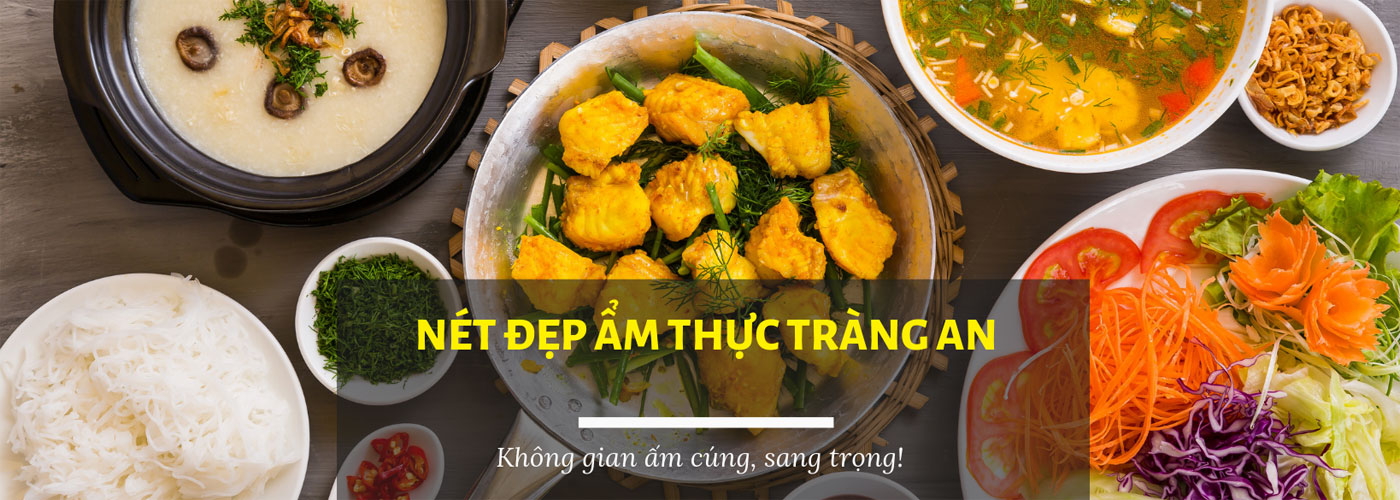
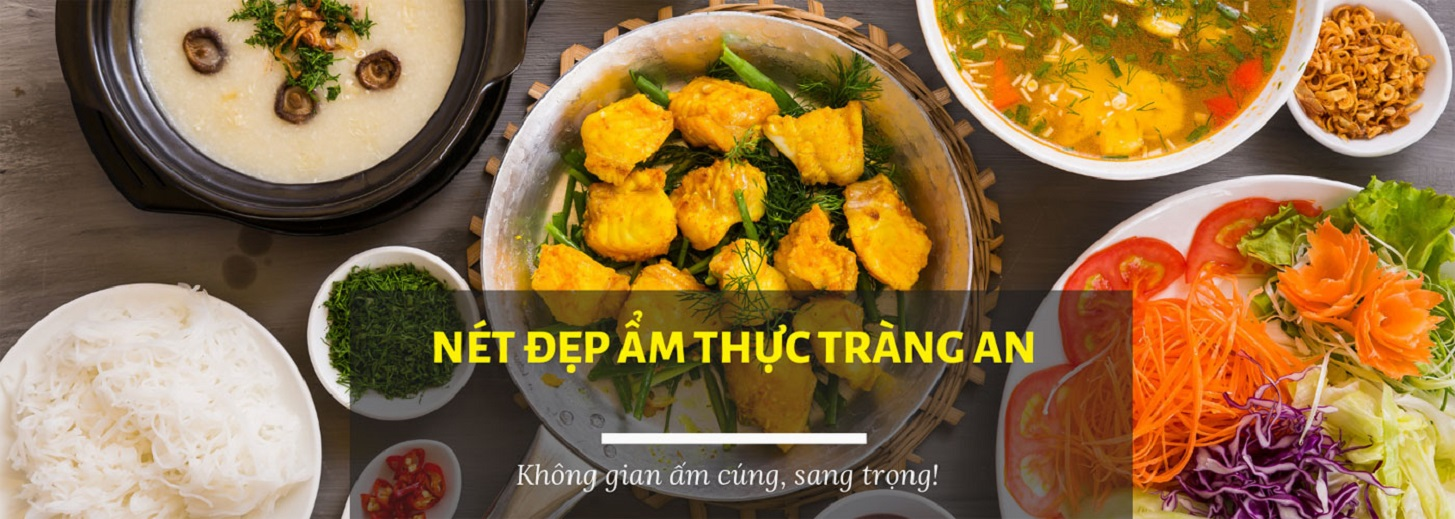
First change

diff --git a/CSS/style.css b/CSS/style.css
@@ -127,7 +127,7 @@ body{
 }
 
 .search-bar{
-    margin-top: 60px;
+    margin-top: 75px;
     float: right;
     height: 40px;
 }
@@ -186,7 +186,7 @@ body{
     display:inline-block;
     color:white;
     padding:20px 50px;
-    font-size: 25px;
+    font-size: 22px;
     font-family: 'Lobster Two';
     font-weight: 700;
 }
